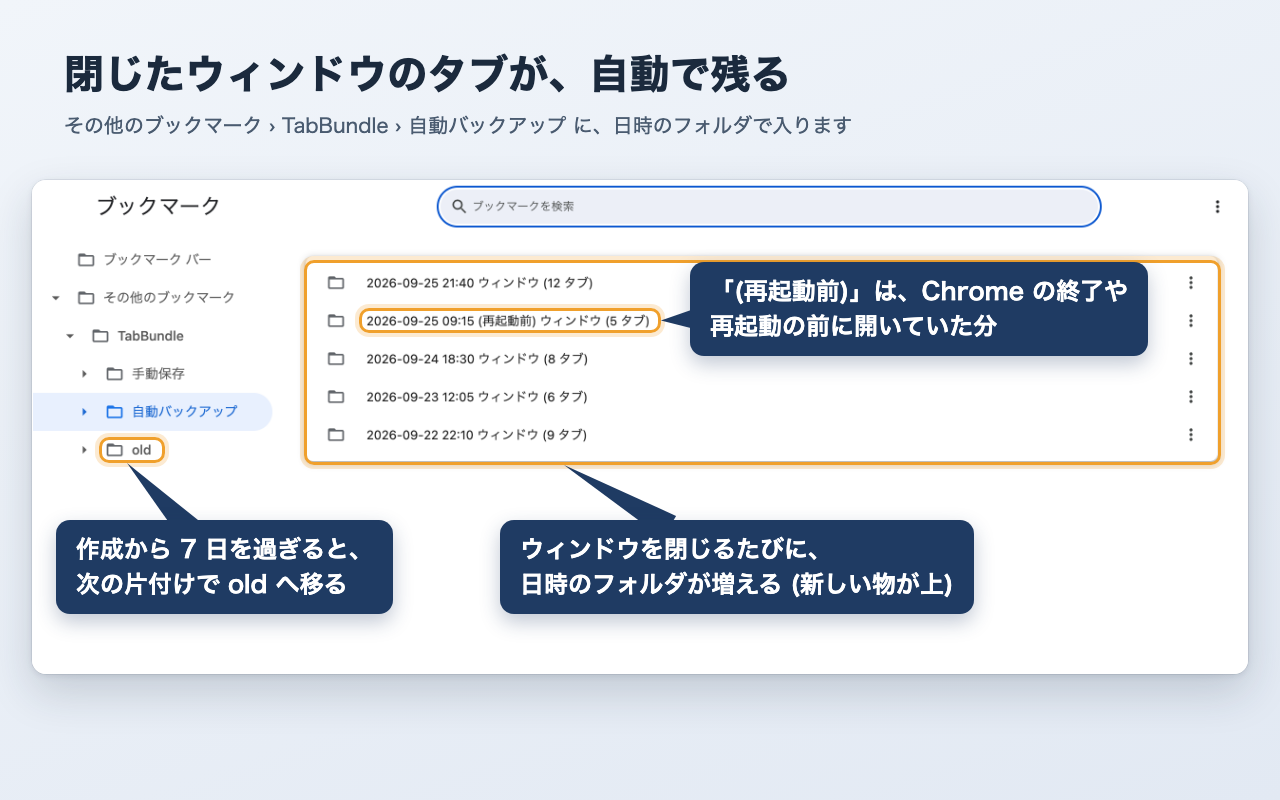
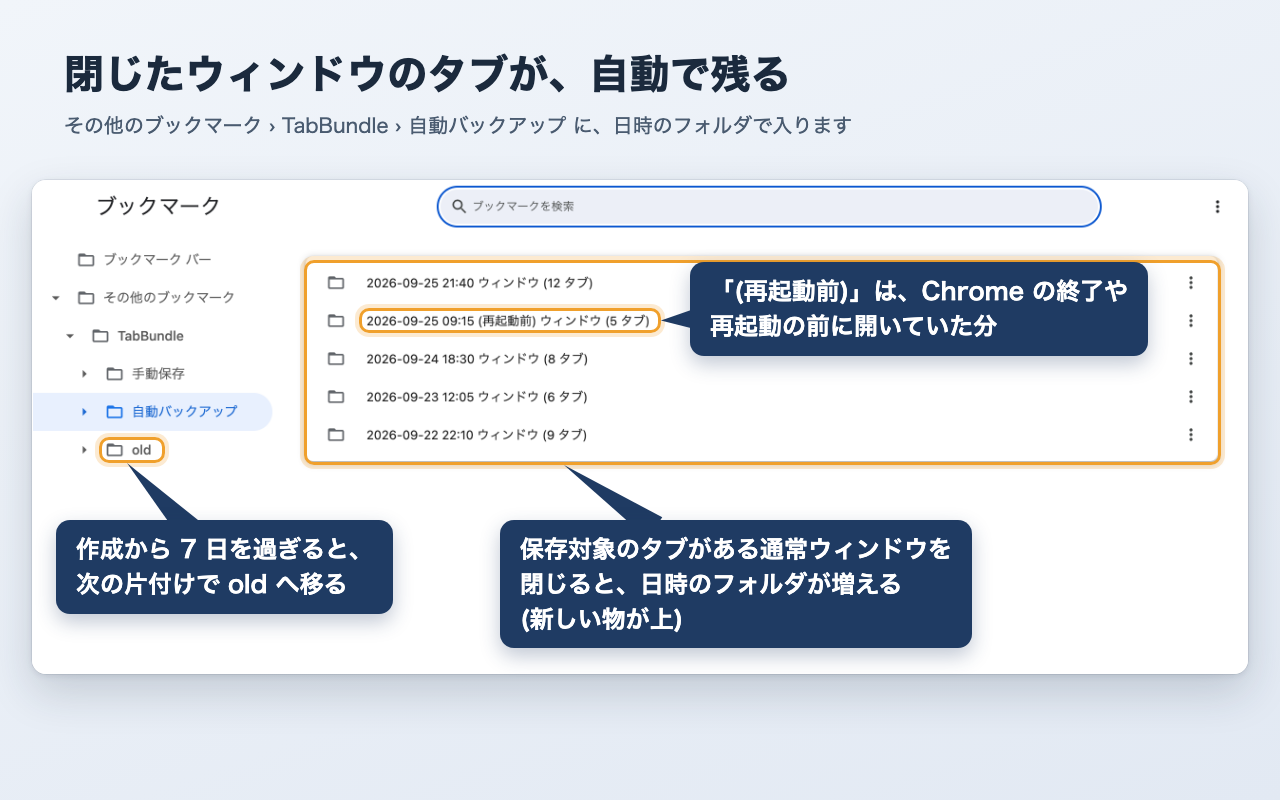
docs: address Grok review of release copy

Changed region(s): [[0.375, 0.5938, 0.7812, 0.8438]]

diff --git a/PRIVACY.md b/PRIVACY.md
@@ -30,10 +30,10 @@ TabBundle は保存データを独自に暗号化していません。端末や 
 
 ### 保存期間と削除方法
 
-- 自動バックアップは、作成から 7 日を過ぎた後の整理で「old/自動バックアップ/」へ移し、移動から 7 日を過ぎた後の整理で削除します。整理は 1 日 1 回と Chrome の起動時に行います。Chrome が動いていない間は削除されません。
+- 自動バックアップは、作成から 7 日を過ぎた後の整理で「old/自動バックアップ/」へ移し、移動から 7 日を過ぎた後の整理で削除します。整理は 1 日 1 回と Chrome の起動時に行います。Chrome が動いていない間は削除されません。自分で「old/自動バックアップ/」へ入れたフォルダも、整理で最初に見つかった時点から 7 日を過ぎた後の整理で削除します。
 - 「手動保存/」内のブックマークは自動削除しません。残したいものは、このフォルダへ移してください。ブックマークは Chrome のブックマーク管理画面から削除できます。
 - 本文保存を OFF にすると、そのサイトの保存済み本文とアクセス許可を削除します。Chrome の設定からサイトへのアクセスを取り消した場合も同様です。ON にしたサイトの設定は、OFF にするまで保持します。
-- TabBundle 内にブックマークがなくなったページの本文は、次の整理で削除します。ただし、開いているタブや自動バックアップの処理待ちのページの本文は残します。本文に一律の日数による保存期限はありません。
+- TabBundle 内にブックマークがなくなったページの本文は、削除・移動の数秒後、または 1 日 1 回の本文整理で削除します。ただし、開いているタブや自動バックアップの処理待ちのページの本文は残します。本文に一律の日数による保存期限はありません。
 - 復旧用のタブ一覧は、タブの変更に合わせて更新します。閉じたウィンドウの情報は、保存処理を終えた後の更新時に削除します。保存直後の確認用データは、通常、保存から 60 秒以上経過した後の処理で削除します。Chrome の終了などで処理できなかった分は、次回起動時の復旧・確認まで残ります。
 - 起動を区別する一時的な識別子は、Chrome の再起動や拡張機能の更新・再読み込み・無効化で消えます。復旧用データ内の識別子は、そのデータとともに削除します。古いバックアップの移動日時は、対象がその保存先からなくなった後の整理で削除します。
 
@@ -77,10 +77,10 @@ Data is used only for tab backups and searching saved pages. It is not used for 
 
 ### Retention and deletion
 
-- Automatic backups move to “old/自動バックアップ/” at the next cleanup after they become more than seven days old. They are deleted at the next cleanup after more than seven days in that folder. Cleanup runs daily and when Chrome starts. Data is not deleted while Chrome is not running.
+- Automatic backups move to “old/自動バックアップ/” at the next cleanup after they become more than seven days old. They are deleted at the next cleanup after more than seven days in that folder. Cleanup runs daily and when Chrome starts. Data is not deleted while Chrome is not running. Folders you place in “old/自動バックアップ/” yourself are also deleted at the next cleanup after more than seven days from when cleanup first finds them.
 - Bookmarks in “手動保存/” are not automatically deleted. Move bookmarks there to keep them. You can delete bookmarks in Chrome's bookmark manager.
 - Turning page-text saving OFF deletes the site's saved text and removes its access permission. Revoking site access in Chrome's settings does the same. Enabled-site settings are kept until turned OFF.
-- Text for pages no longer bookmarked under TabBundle is deleted during the next cleanup, except for open tabs and pages awaiting automatic backup. Page text has no fixed retention period.
+- Text for pages no longer bookmarked under TabBundle is deleted a few seconds after bookmarks are deleted or moved, or during daily text cleanup, except for open tabs and pages awaiting automatic backup. Page text has no fixed retention period.
 - The recovery snapshot is updated as tabs change. Information about a closed window is removed during a snapshot update after its save operation completes. Data kept to check a recent save is normally removed during processing after at least 60 seconds have passed. If Chrome closes before processing completes, data remains until recovery and verification on the next startup.
 - The temporary identifier used to distinguish browser sessions is cleared when Chrome restarts or the extension is updated, reloaded, or disabled. Identifiers in recovery data are deleted with that data. Backup move timestamps are deleted during cleanup after the corresponding items leave the old-backup folder.
 

diff --git a/store/listing.md b/store/listing.md
@@ -13,7 +13,7 @@
 TabBundle は、通常ウィンドウで開いていたタブを Chrome のブックマークに残し、あとから探せるようにする拡張機能です。ウィンドウを閉じたときや Chrome を再起動したときのタブを「その他のブックマーク/TabBundle/自動バックアップ/」にまとめます。
 
 - ツールバーのポップアップから、保存したページをタイトルと URL で検索できます。
-- 右クリックメニューでサイトごとの本文保存を ON にすると、そのサイトのページ本文の先頭 20,000 字も検索に使えます。初期状態は全サイト OFF です。サイトへのアクセスは ON にするときだけ求めます。
+- 右クリックメニューでサイトごとの本文保存を ON にすると、そのサイトのページ本文の先頭 20,000 字も検索に使えます。初期状態は全サイト OFF です。対象はホスト名の完全一致で判定します。サブドメインは別に設定します。サイトへのアクセスは ON にするときだけ求めます。
 - 固定タブ、新しいタブ、拡張機能のページ、URL が空のタブ、シークレットウィンドウのタブはバックアップしません。
 - 終了直前の変更や保存に失敗したタブは、残らないことがあります。
 - 自動バックアップは作成から 7 日を過ぎた後の片付けで old に移り、old に入ってから 7 日を過ぎた後の片付けで削除されます。残したいブックマークは「手動保存/」へ移してください。このフォルダは自動削除しません。
@@ -33,10 +33,10 @@ Automatically back up open tabs as bookmarks and search saved pages by title, UR
 TabBundle saves tabs from normal Chrome windows as bookmarks so you can find those pages later. It groups tabs from closed windows and previous Chrome sessions under “Other bookmarks/TabBundle/自動バックアップ/”.
 
 - Search saved pages by title or URL in the toolbar popup.
-- Optionally turn on page-text saving for a site from the right-click menu. TabBundle then uses up to the first 20,000 characters of visible text from that site's pages in search. This is OFF for every site by default. Site access is requested only when you turn it ON.
+- Optionally turn on page-text saving for a site from the right-click menu. TabBundle then uses up to the first 20,000 characters of visible text from that site's pages in search. This is OFF for every site by default. Settings apply to an exact hostname; subdomains are separate. Site access is requested only when you turn it ON.
 - Pinned tabs, new tabs, extension pages, tabs with empty URLs, and tabs in incognito windows are excluded from backups.
 - Changes made just before closing and tabs that fail to save may be missing from backups.
-- Automatic backups move to the old folder at the next cleanup after seven days, then are deleted at the next cleanup after another seven days there. Move bookmarks you want to keep to “手動保存/”; this folder is not automatically deleted.
+- Automatic backups move to the old folder at the next cleanup after more than seven days, then are deleted at the next cleanup after more than seven days there. Move bookmarks you want to keep to “手動保存/”; this folder is not automatically deleted.
 - The extension makes no external requests. If Chrome bookmark sync is enabled, Chrome may sync the bookmarks it creates. Saved page text stays on the device and is not part of bookmark sync.
 
 Privacy policy: https://github.com/gearmind-inc/TabBundle/blob/main/PRIVACY.md

diff --git a/store/submission.md b/store/submission.md
@@ -40,7 +40,7 @@ Save open tabs as bookmarks and make saved pages searchable later. Optional page
 - `alarms`: Run daily cleanup.
 - `contextMenus`: Show the right-click menu that turns page-text saving ON or OFF for a site.
 - `scripting`: Run the bundled function that reads page text on sites where saving is ON.
-- `unlimitedStorage`: Prevent saved page text from reaching the normal 10 MB storage limit.
+- `unlimitedStorage`: Allow saved page text to exceed the normal 10 MB storage quota.
 - `https://*/*` (optional site access): When you enable text saving for an HTTPS site, request access to that hostname to read page text. It is not requested at installation.
 - `http://*/*` (optional site access): When you enable text saving for an HTTP site, request access to that hostname to read page text. It is not requested at installation.
 
